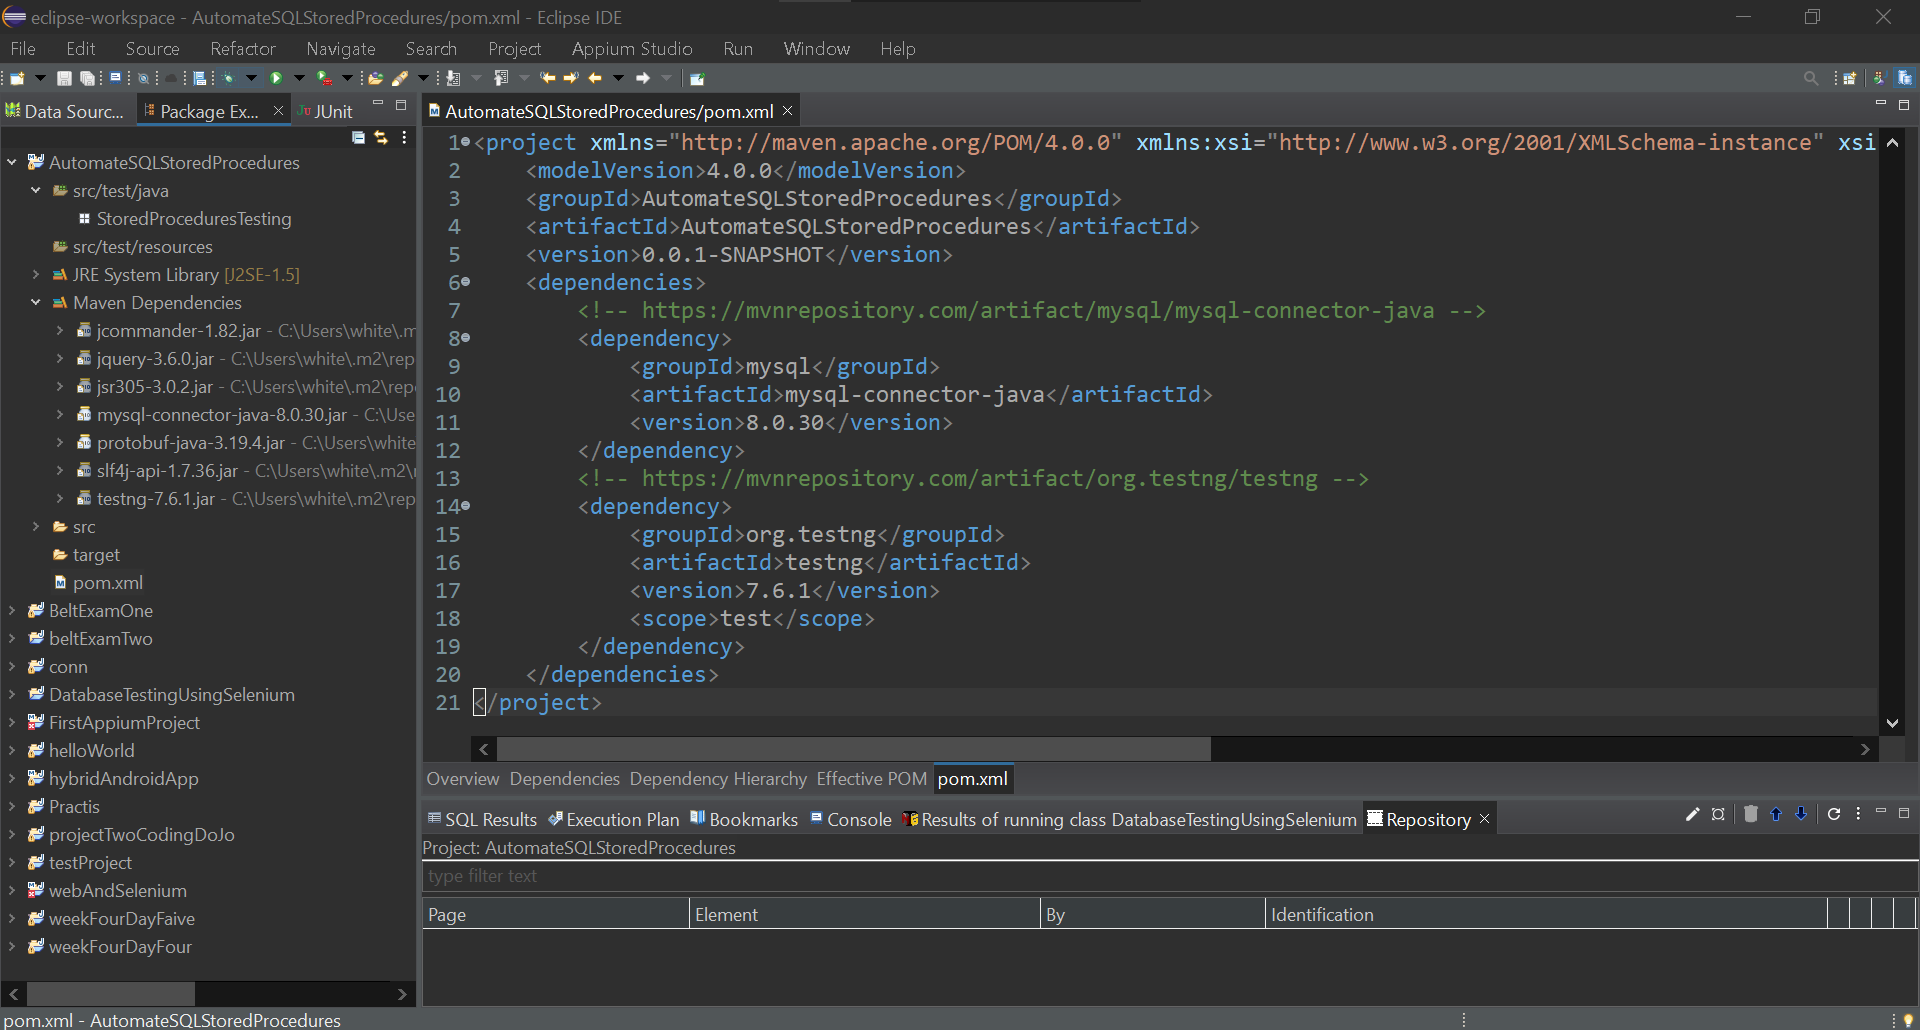
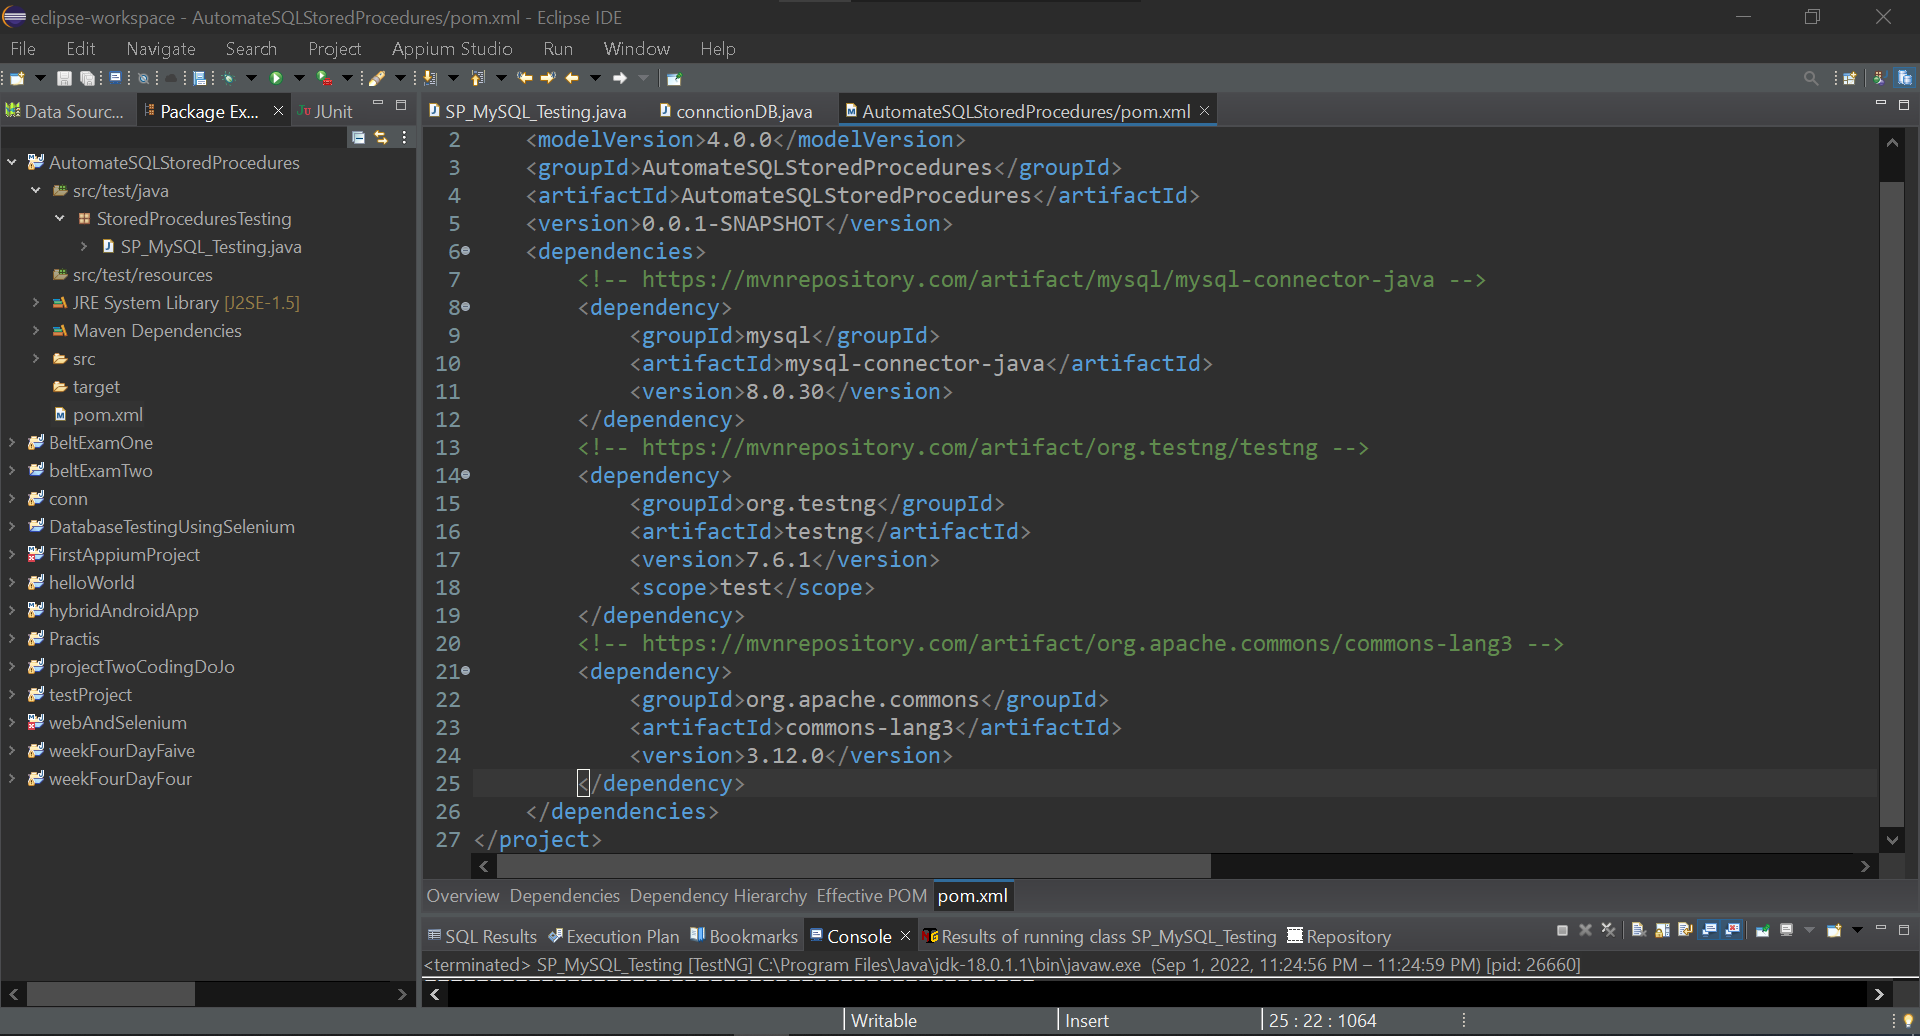
Edit README.md AutomateSQLStoredProcedures

diff --git a/AutomateSQLStoredProcedures/README.md b/AutomateSQLStoredProcedures/README.md
@@ -18,9 +18,9 @@
 - In `\src\test\java` Create a new Packege, `StoredProceduresTesting`
 - In `pom.xml` Add Dependency >
     - Go to https://mvnrepository.com/
-    - Search For `MySql` and `TestNG`, Click on the latest version, Copy the Dependency, and Paste it inside `<dependencies></dependencies>` Tag.
+    - Search For `MySql`, `lang3` and `TestNG`, Click on the latest version, Copy the Dependency, and Paste it inside `<dependencies></dependencies>` Tag.
 
 <img src='img/img4.png' /></br>
 
 - Create a `TestNG` class `SP_MySQL_Testing`, In the `StoredProceduresTesting` Packege.
-- Create the Test Case.
+- Create the Test Cases.
